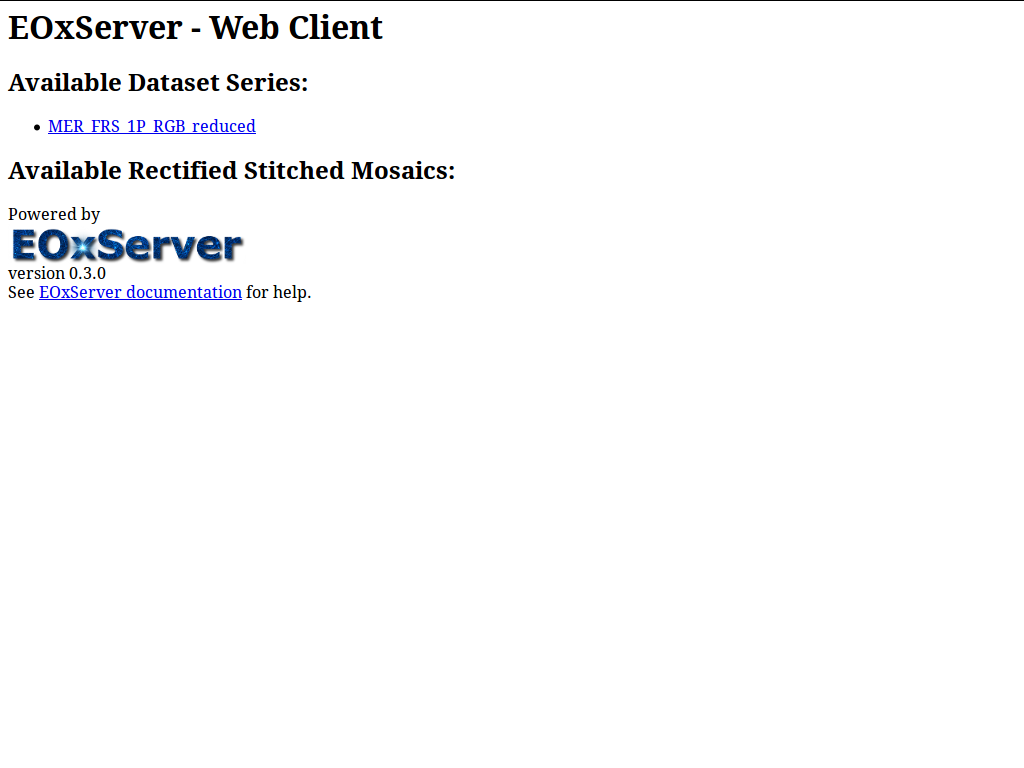
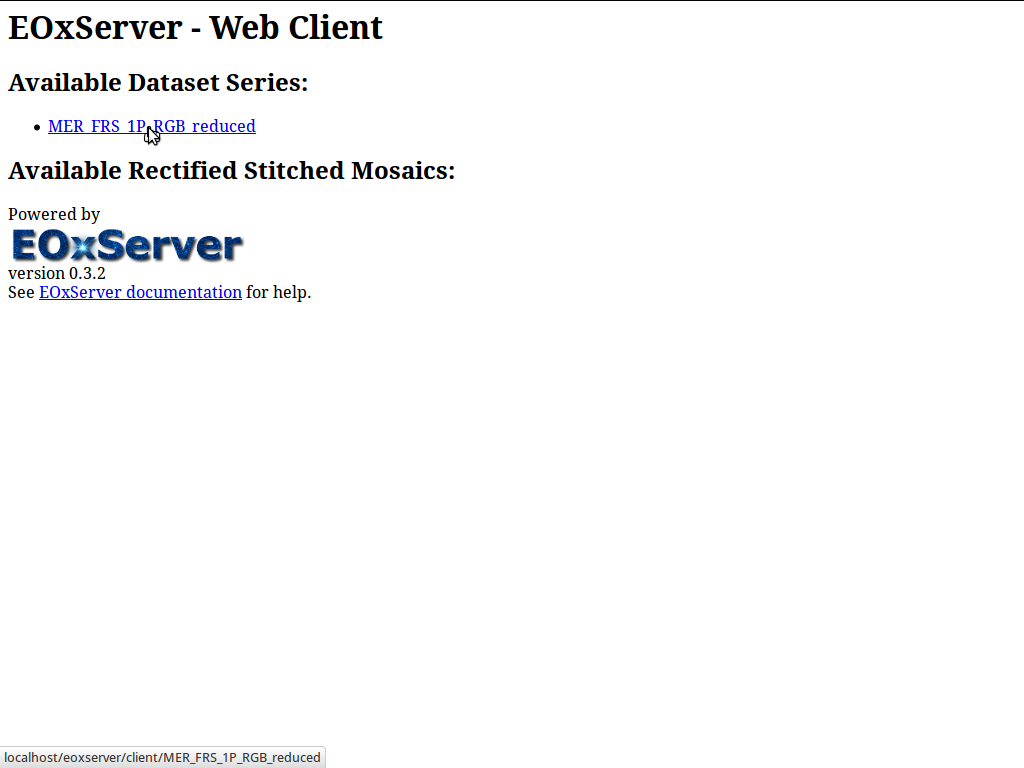
Updating version and screenshots of EOxServer in documentation.
git-svn-id: http://svn.osgeo.org/osgeo/livedvd/gisvm/trunk@11052 7da46fd8-bd2a-0410-a152-cf9810cf5b10

Changed region(s): [[0.0, 0.9688, 0.3125, 1.0], [0.125, 0.1562, 0.1562, 0.1875], [0.0938, 0.3438, 0.125, 0.375]]

diff --git a/doc/conf.py b/doc/conf.py
@@ -246,7 +246,7 @@ rst_epilog="""
 .. |version-udig| replace:: 1.4.0b
 .. |version-52nWPS| replace:: 3.2.0 
 .. |version-52nSOS| replace:: 3.5.0 
-.. |version-eoxserver| replace:: 0.3.0
+.. |version-eoxserver| replace:: 0.3.2
 """ % {
   'projectname':project,
   'projectversion': version, 
